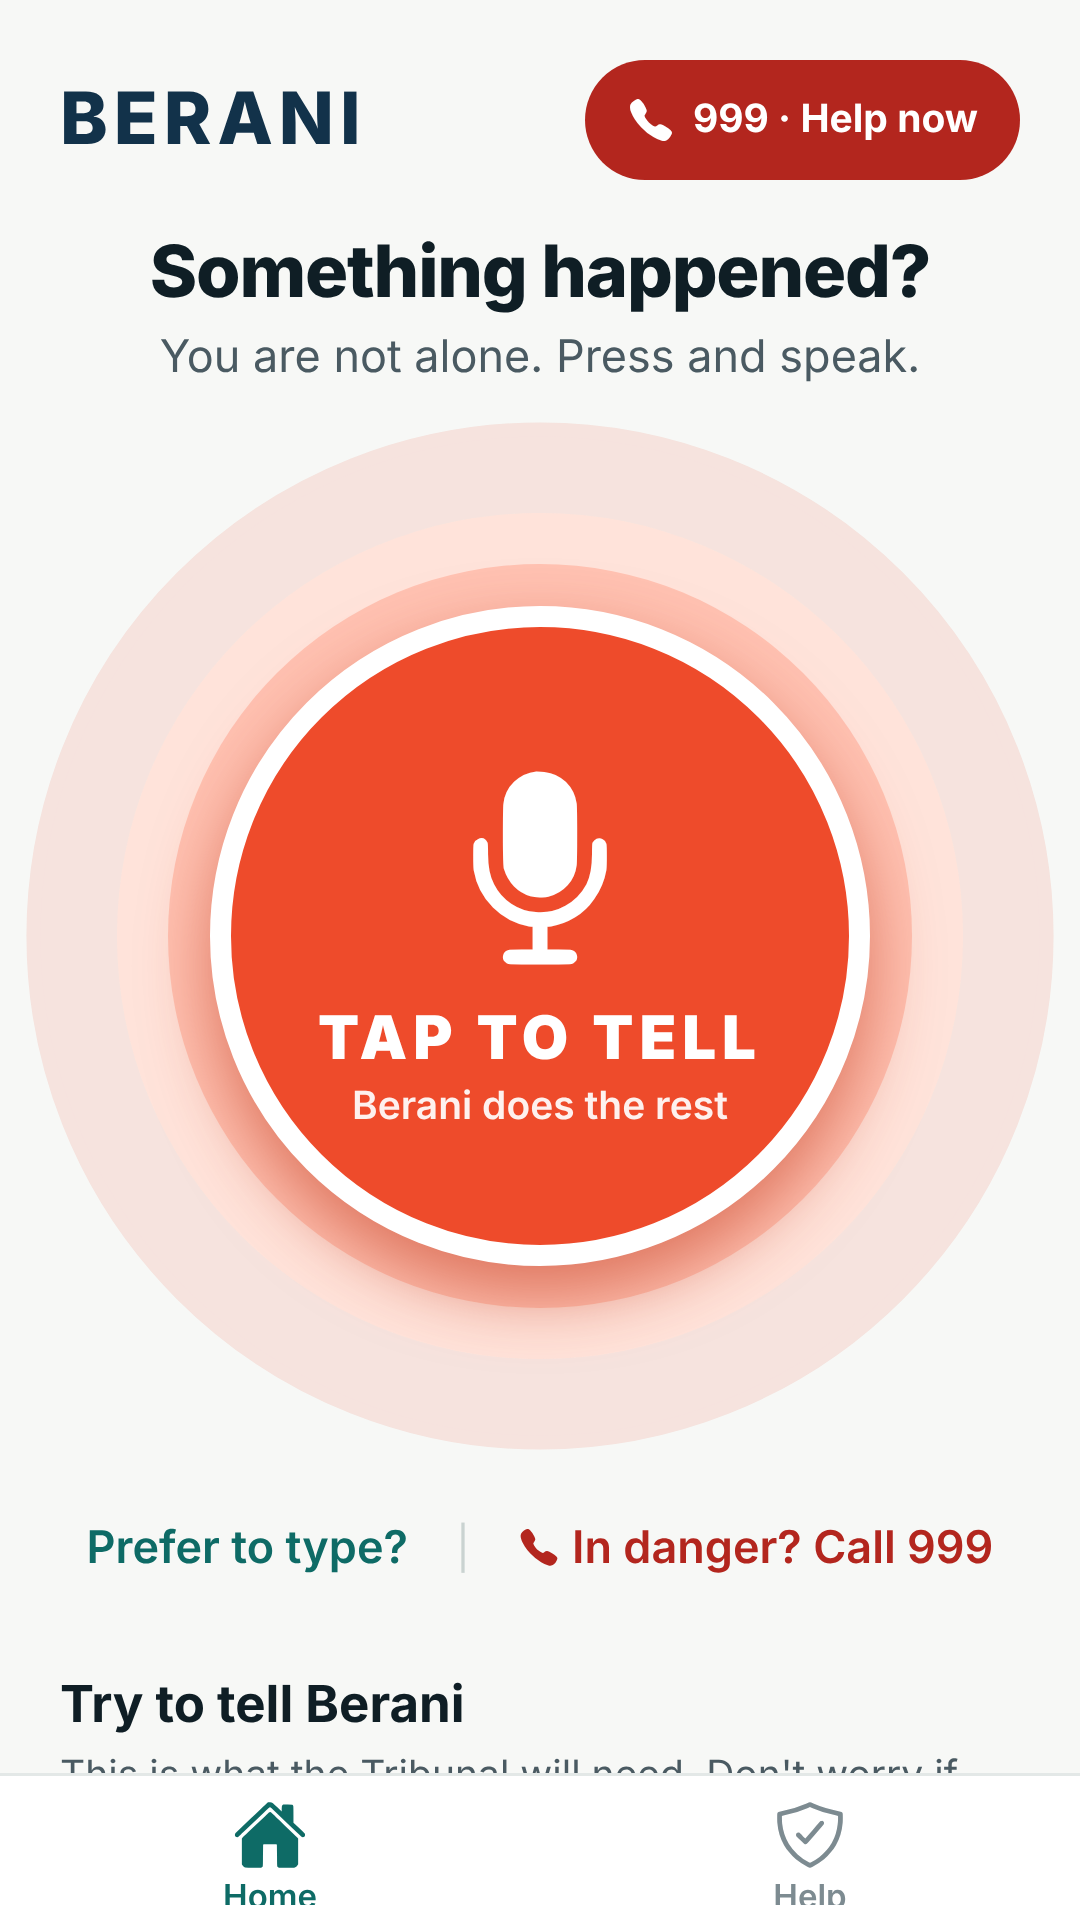
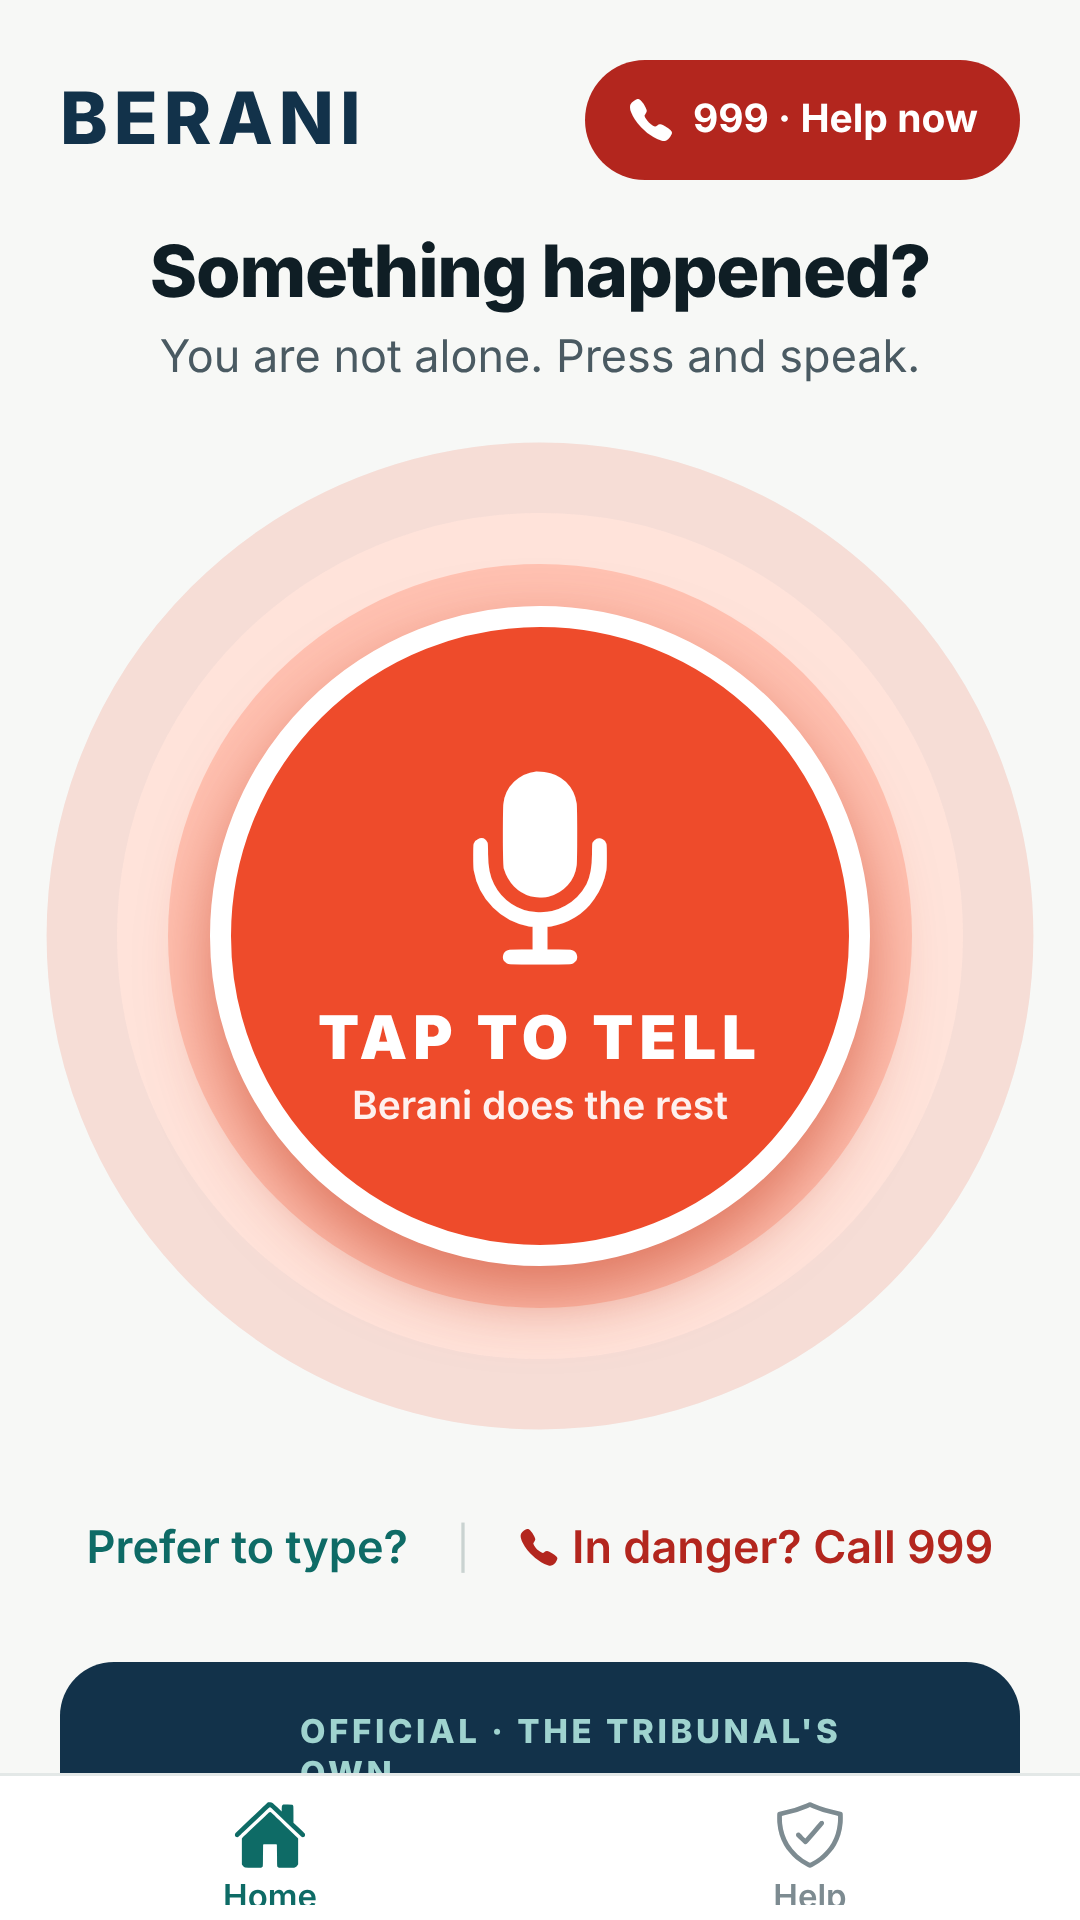
Berani 3.2: store text, screenshots and privacy policy for in-form fill and in-app BAYU
Claude-Session: https://claude.ai/code/session_01GwXLJ5ka6s8aZwdtMRYVQt

Changed region(s): [[0.0306, 0.8438, 0.9472, 0.9375]]

diff --git a/docs/privacy-policy.html b/docs/privacy-policy.html
@@ -16,7 +16,7 @@
 </style>
 </head><body>
 <h1>Berani Privacy Policy</h1>
-<p class="muted">Effective date: 25 October 2026 (Berani version 3.1). <a href="#bm">Ringkasan Bahasa Melayu di bawah.</a></p>
+<p class="muted">Effective date: 29 October 2026 (Berani version 3.2). <a href="#bm">Ringkasan Bahasa Melayu di bawah.</a></p>
 
 <div class="box">
   <p><strong>In short:</strong> Berani has no accounts, no advertising and no tracking. Your cases, notes and screenshots are stored only on your phone. Your voice, text and screenshots leave your phone only when you choose to use Berani AI (telling Berani what happened, checking screenshots, or writing Borang 1), and our server does not keep a copy.</p>
@@ -54,6 +54,7 @@
   <li>describing screenshots you choose to check.</li>
 </ul>
 <p>Berani has no AI chat. It does not give legal advice or decide whether a case can go to the Tribunal. For questions about the Tribunal, Berani sends you to the Tribunal's own channels: BAYU, the AI assistant of BHEUU that the Tribunal's portal uses, Tanya Kami on tab.bheuu.gov.my, and its phone line. For someone to talk to, Berani connects you to Talian Kasih, the Ministry of Education's bullying line, Befrienders and Buddy Bear. Berani sends nothing to BAYU or these services: it only opens them, and what you type there is covered by their own privacy terms.</p>
+<p><strong>The Tribunal's form inside Berani.</strong> When you open the Tribunal's e-TAB form or BAYU inside Berani, they load straight from the Tribunal's own websites. On the e-TAB form, Berani notes on your phone which box you tapped, so it can offer the matching answer, and puts an answer in that box only when you tap it. Berani never presses Submit or any other button on the form, and nothing you type or send there goes to Berani's server. What you submit is covered by the Tribunal's own privacy terms.</p>
 
 <h2>4. Who processes it</h2>
 <ul>
@@ -74,7 +75,7 @@
   <li><strong>Photos</strong>: only when you choose screenshots or photos to add as proof.</li>
   <li><strong>Camera</strong>: only when you take a photo as proof.</li>
   <li><strong>Microphone</strong>: only while you are recording in <em>Tell Berani</em>.</li>
-  <li><strong>Phone and links</strong>: tapping a hotline opens your phone dialler or WhatsApp (with a short greeting you can change before sending, never details of your case); tapping BAYU or the Tribunal portal opens your browser.</li>
+  <li><strong>Phone and links</strong>: tapping a hotline opens your phone dialler or WhatsApp (with a short greeting you can change before sending, never details of your case); BAYU and the Tribunal's form open inside Berani from the official websites, and you can also open them in your browser.</li>
 </ul>
 
 <h2>7. Sharing Borang 1 and messages</h2>
@@ -104,6 +105,7 @@
   <li>Suara, teks dan gambar dihantar hanya apabila anda memilih untuk menggunakan Berani AI. Rakaman suara ditukar kepada teks dan kemudian dipadam. Pelayan kami tidak menyimpan kandungannya. Penyedia AI (OpenAI atau Anthropic) memprosesnya untuk menjana jawapan dan mungkin menyimpannya untuk tempoh terhad bagi pemantauan keselamatan.</li>
   <li>Nombor kad pengenalan dan alamat anda tidak pernah disimpan atau dihantar. Ia hanya ditaip semasa membuat PDF Borang 1.</li>
   <li>Berani tiada sembang AI. Soalan tentang Tribunal diajukan kepada BAYU dan Tanya Kami di laman rasmi Tribunal.</li>
+  <li>Borang e-TAB dan BAYU dibuka di dalam Berani terus dari laman rasmi Tribunal. Berani hanya memasukkan jawapan ke dalam kotak yang anda sentuh, apabila anda menyentuh jawapan itu. Berani tidak menekan Hantar, dan apa yang anda hantar tidak sampai ke pelayan Berani.</li>
   <li>Berani tidak memfailkan apa-apa bagi pihak anda. Anda membuat aduan melalui saluran rasmi Tribunal di tab.bheuu.gov.my.</li>
   <li>Borang 1 mungkin mengenal pasti kanak kanak. Kongsi hanya dengan ibu bapa, sekolah, Tribunal, polis atau peguam (seksyen 50 Akta Antibuli 2026).</li>
   <li>Dalam bahaya? Hubungi 999. Talian Kasih 15999 atau WhatsApp 019-261 5999. Befrienders 03-7627 2929.</li>
